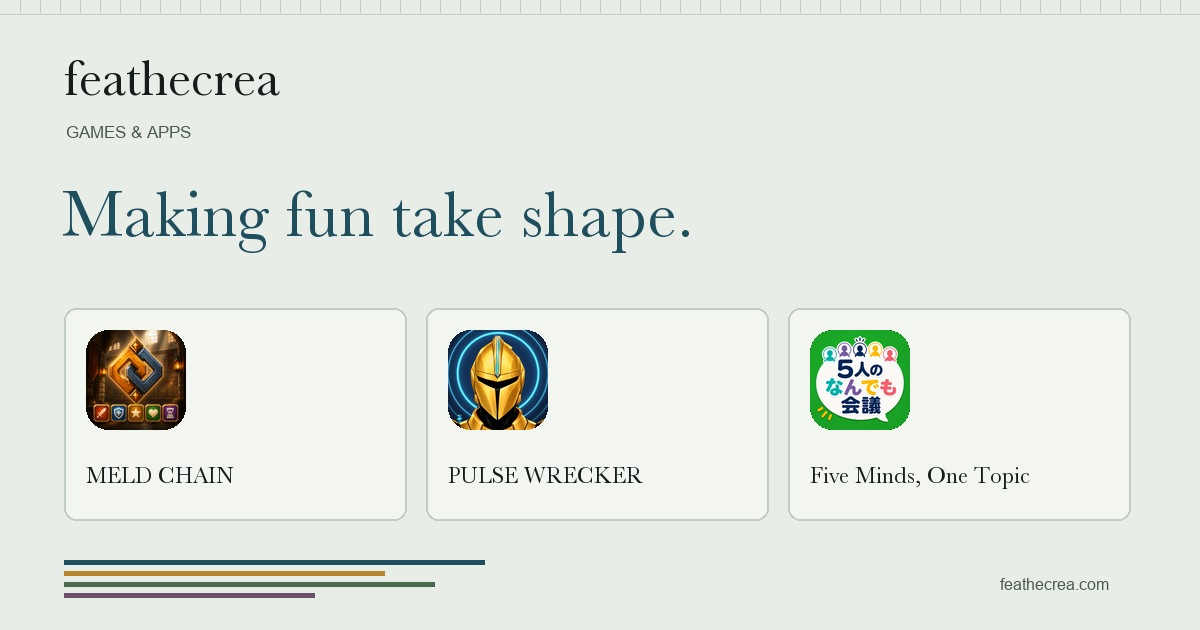
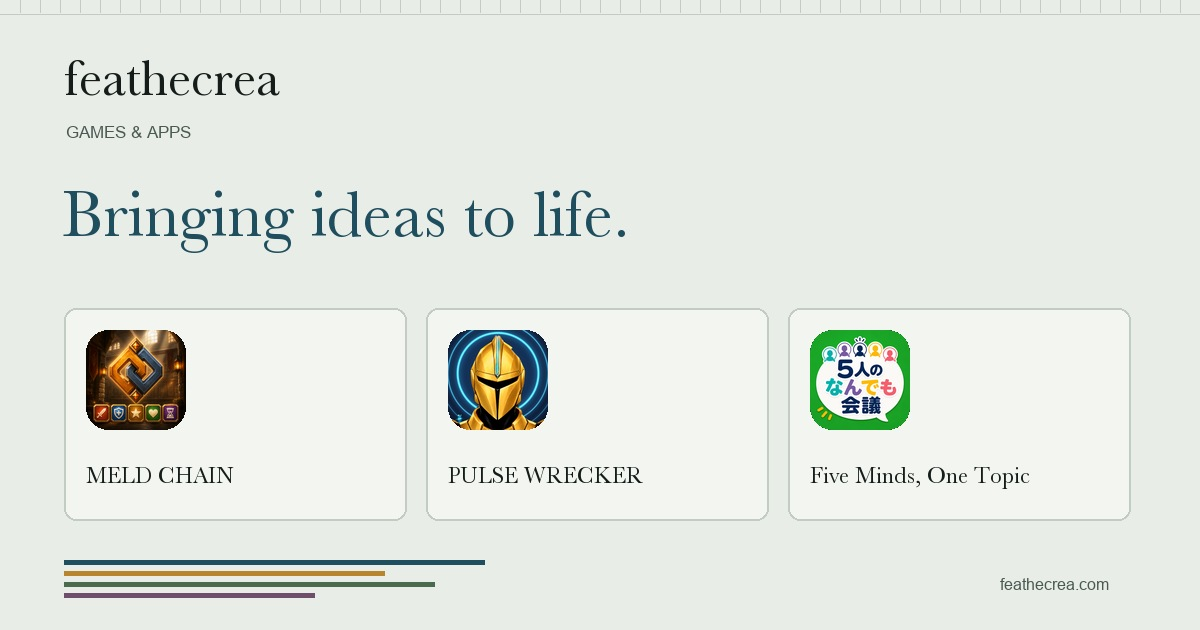
Feature DEEP SEA SURVEY on homepage and update studio headline

Changed region(s): [[0.0308, 0.3016, 0.555, 0.4222]]

diff --git a/index.html b/index.html
@@ -3,19 +3,19 @@
 <head>
 <meta charset="utf-8">
 <meta name="viewport" content="width=device-width, initial-scale=1">
-<title>feathecrea — 楽しいを、形にしていく。</title>
+<title>feathecrea — イメージを、形にしていく。</title>
 <link rel="canonical" href="https://feathecrea.com/">
 <meta property="og:site_name" content="feathecrea">
-<meta property="og:title" content="feathecrea — 楽しいを、形にしていく。">
+<meta property="og:title" content="feathecrea — イメージを、形にしていく。">
 <meta property="og:description" content="ゲームとアプリを企画から絵・音・実装まで一貫して手がける制作スタジオ。Games and apps by feathecrea.">
 <meta property="og:type" content="website">
 <meta property="og:url" content="https://feathecrea.com/">
-<meta property="og:image" content="https://feathecrea.com/images/feathecrea-og.jpg">
+<meta property="og:image" content="https://feathecrea.com/images/feathecrea-og.jpg?v=2">
 <meta property="og:image:width" content="1200">
 <meta property="og:image:height" content="630">
-<meta property="og:image:alt" content="feathecrea — Making fun take shape. MELD CHAIN, PULSE WRECKER, Five Minds, One Topic.">
+<meta property="og:image:alt" content="feathecrea — Bringing ideas to life. MELD CHAIN, PULSE WRECKER, Five Minds, One Topic.">
 <meta name="twitter:card" content="summary_large_image">
-<meta name="twitter:image" content="https://feathecrea.com/images/feathecrea-og.jpg">
+<meta name="twitter:image" content="https://feathecrea.com/images/feathecrea-og.jpg?v=2">
 <meta name="description" content="feathecrea（フェザクリエ）は、ゲームとアプリを企画から絵・音・実装まで一貫して手がける制作スタジオです。">
 <link rel="preconnect" href="https://fonts.googleapis.com">
 <link rel="preconnect" href="https://fonts.gstatic.com" crossorigin>
@@ -381,6 +381,10 @@ html[lang="en"] .brand-jp{display:none}
 .lane{height:4px}
 #works{padding-top:36px}
 .item{scroll-margin-top:20px}
+.game-preview{display:block;max-width:640px;margin-top:20px;text-decoration:none}
+.game-preview img{display:block;width:100%;height:auto;border:1px solid var(--rule);border-radius:3px}
+.game-preview:focus-visible{outline:2px solid var(--amber);outline-offset:4px}
+.item .play-note{font-size:13px;color:var(--ink-soft);margin-top:14px}
 .product-summary{font-weight:500}
 .item .price-note{font-size:13px;color:var(--ink-soft);margin-top:12px}
 .product-details{margin-top:22px;font-size:14px}
@@ -427,7 +431,7 @@ html[lang="en"] .brand-jp{display:none}
 
 <section class="hero">
   <div class="wrap">
-    <h1 data-en="Making fun&lt;br&gt;&lt;span class=&quot;q&quot;&gt;take shape.&lt;/span&gt;">楽しいを、<br><span class="q">形にしていく。</span></h1>
+    <h1 data-en="Bringing ideas&lt;br&gt;&lt;span class=&quot;q&quot;&gt;to life.&lt;/span&gt;">イメージを、<br><span class="q">形にしていく。</span></h1>
     <p data-en="feathecrea is a game and app studio. From planning to art, sound and code, everything is handled in-house.">feathecrea はゲームとアプリの制作スタジオです。企画から絵・音・実装まで、一貫して手がけています。</p>
     <a class="hero-cta" href="#works" data-en="Explore the games &amp; apps ↓">ゲームとアプリを見る ↓</a>
     <nav class="work-preview" aria-label="配信中の作品" data-en-aria-label="Available games and apps">
@@ -573,6 +577,25 @@ html[lang="en"] .brand-jp{display:none}
         </p>
         <div class="meta"><span>Flutter</span><span data-en="Backend">バックエンド</span><span data-en="JP / EN">日英対応</span></div>
         </details>
+      </div>
+    </div>
+
+    <div class="item i5 rv" id="deepsea">
+      <div class="tag">
+        <span data-en="Browser game / Deep-sea exploration">ブラウザゲーム ／ 深海探索</span>
+        <span class="chip c-live" data-en="Out now">公開中</span>
+      </div>
+      <div>
+        <h3 data-en="DEEP SEA SURVEY">深海探査</h3>
+        <div class="sub" data-en="Play on mobile or PC — Japanese / English">スマホ・PC対応 ／ 日本語・English</div>
+        <a class="game-preview" href="games/deepsea/" aria-label="深海探査をブラウザで遊ぶ" data-en-aria-label="Play DEEP SEA SURVEY in your browser">
+          <img src="games/deepsea/ogp.png" width="1200" height="630" alt="深海探査 — 海底へ降りていく無人探査機" data-en-alt="DEEP SEA SURVEY — an unmanned probe descending into the deep sea" loading="lazy">
+        </a>
+        <p class="product-summary" data-en="Pilot an unmanned probe down a shaft in the seabed.&lt;br&gt;A short deep-sea exploration game.">無人探査機で、海底の縦穴を降りていく。<br>短い深海探査ゲーム。</p>
+        <p class="play-note" data-en="Caution: may be distressing if you fear the sea or deep water.">※海・深海が苦手な人は注意してください。</p>
+        <div class="store-links" aria-label="深海探査を遊ぶ" data-en-aria-label="Play DEEP SEA SURVEY">
+          <a href="games/deepsea/" data-en="Play in your browser →">ブラウザで遊ぶ →</a>
+        </div>
       </div>
     </div>
 
@@ -737,7 +760,7 @@ html[lang="en"] .brand-jp{display:none}
 <script>
 /* language switch: ?lang= → saved choice → browser language */
 (function(){
-  var T={ja:document.title,en:'feathecrea — Making fun take shape.'};
+  var T={ja:document.title,en:'feathecrea — Bringing ideas to life.'};
   var md=document.querySelector('meta[name="description"]');
   var D={ja:md?md.content:'',en:'feathecrea is a game and app studio that handles everything in-house, from planning to art, sound and code.'};
   function pick(){ return FeathecreaLanguage.get(); }
